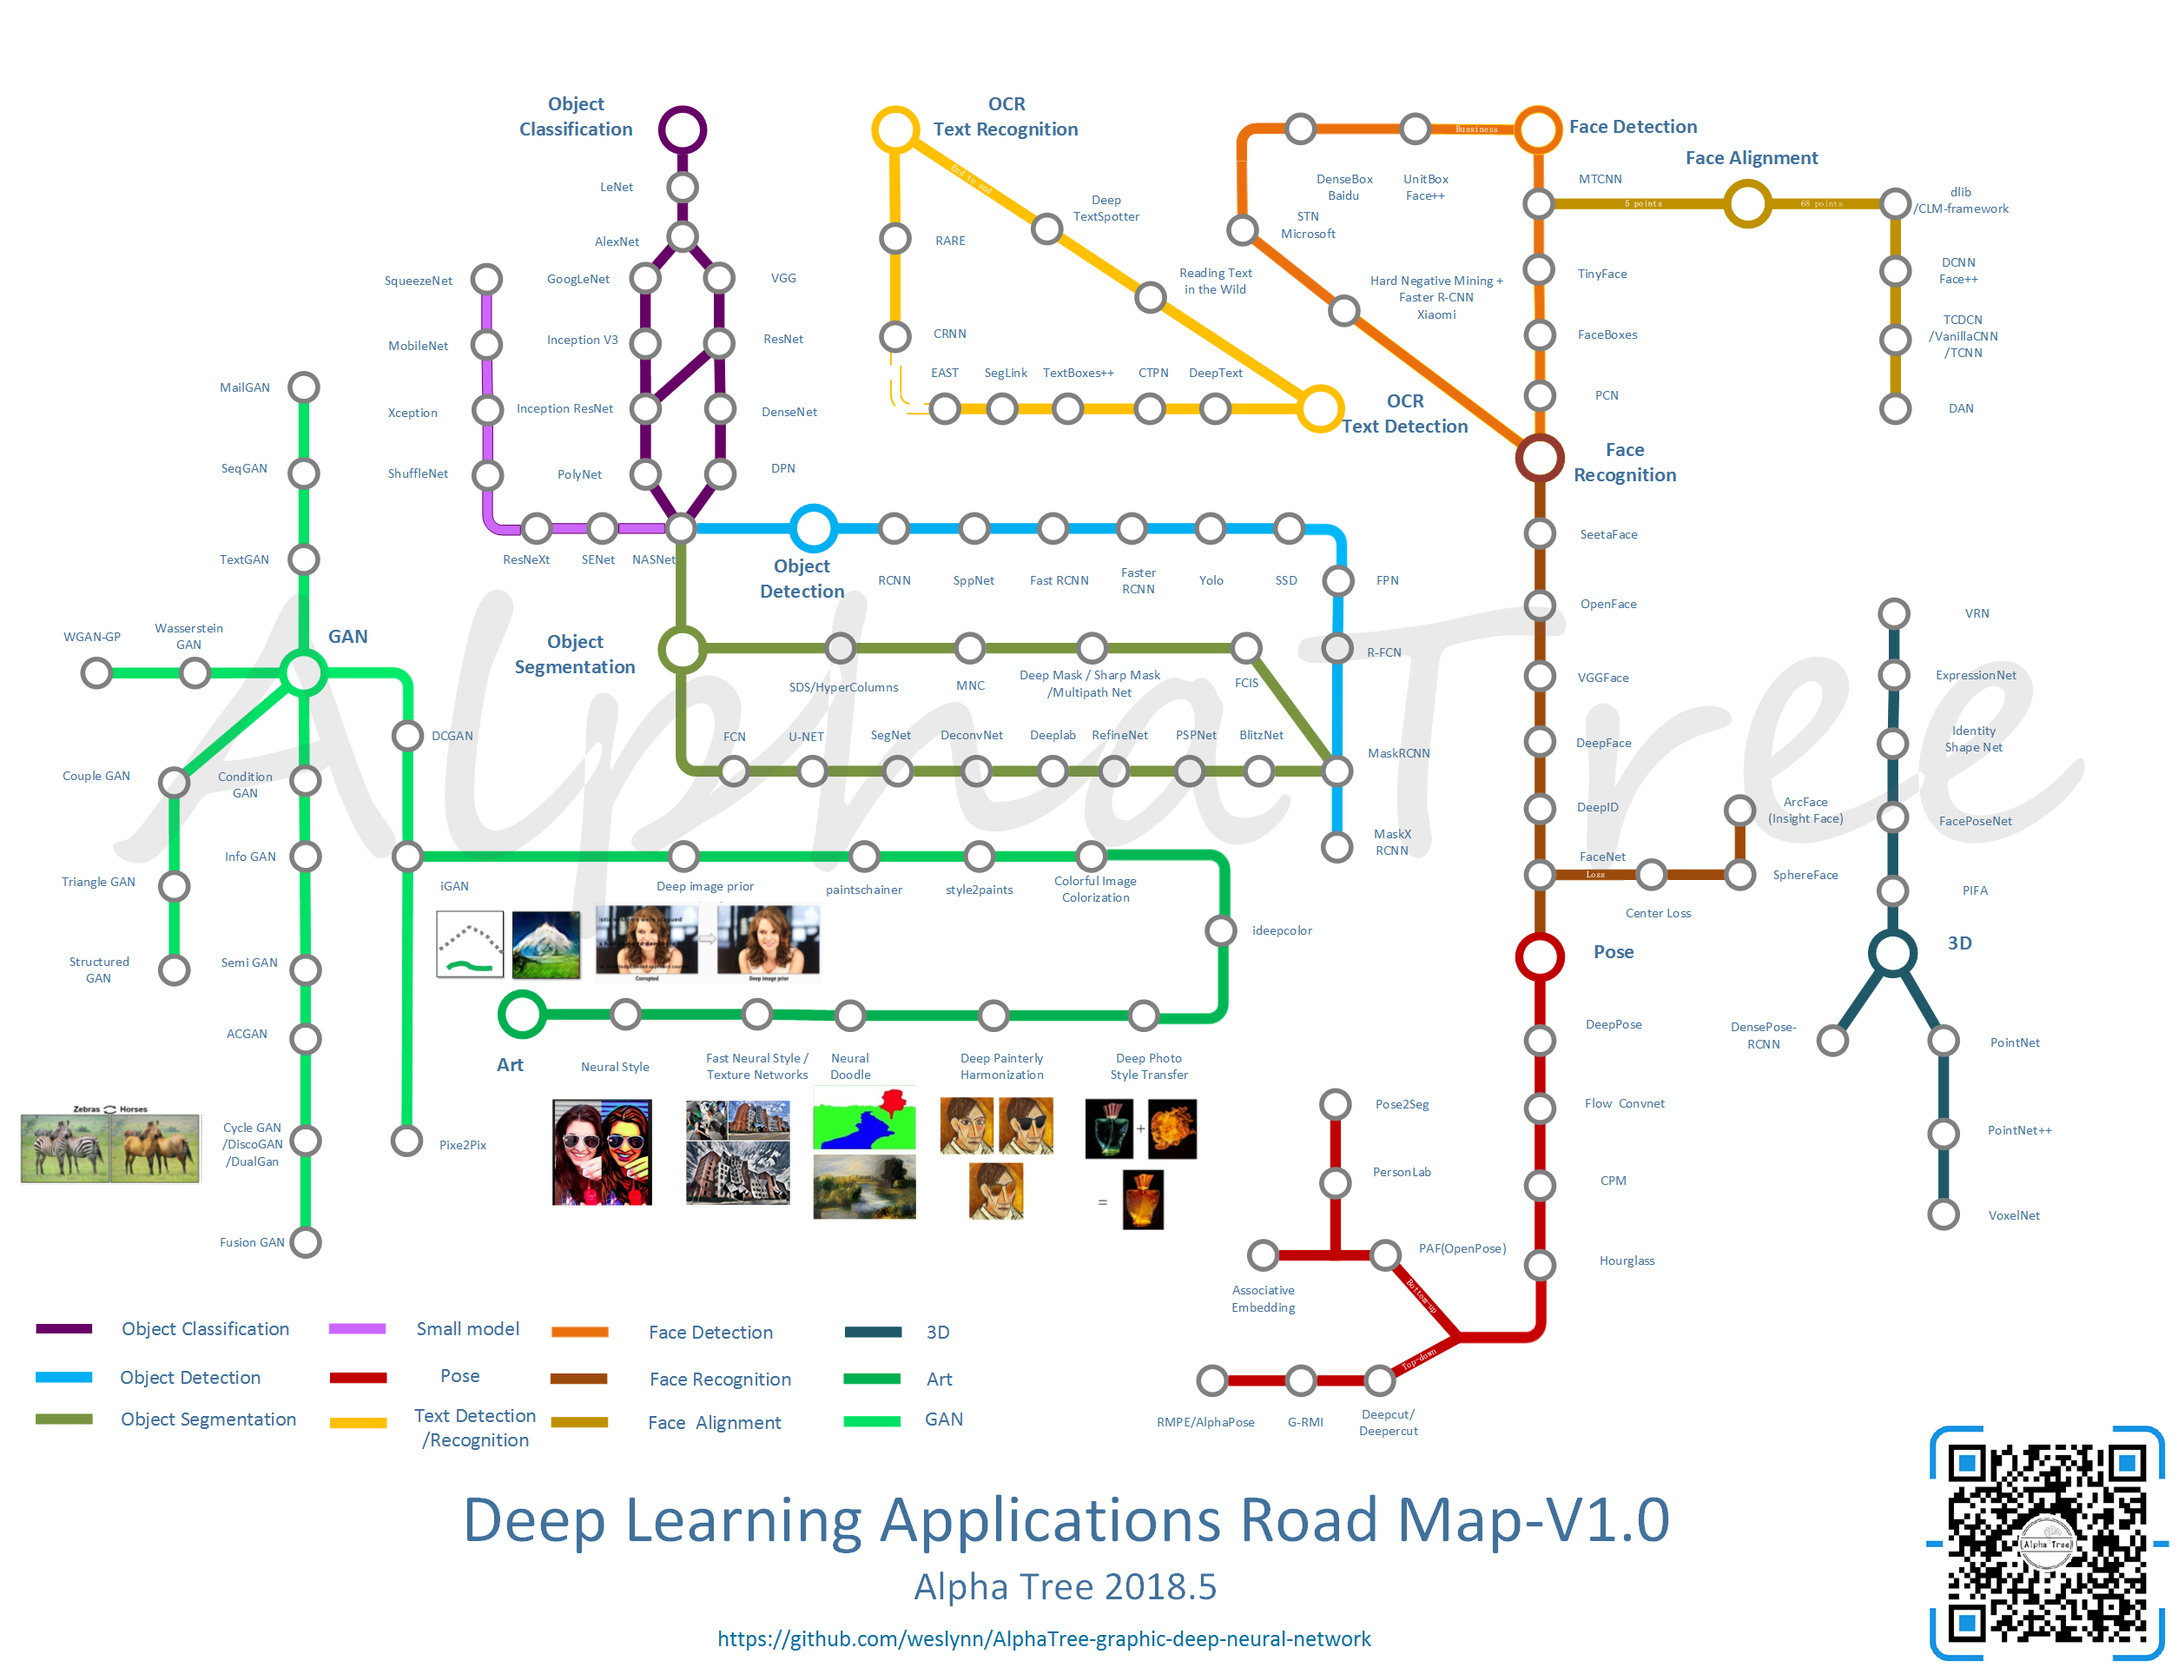
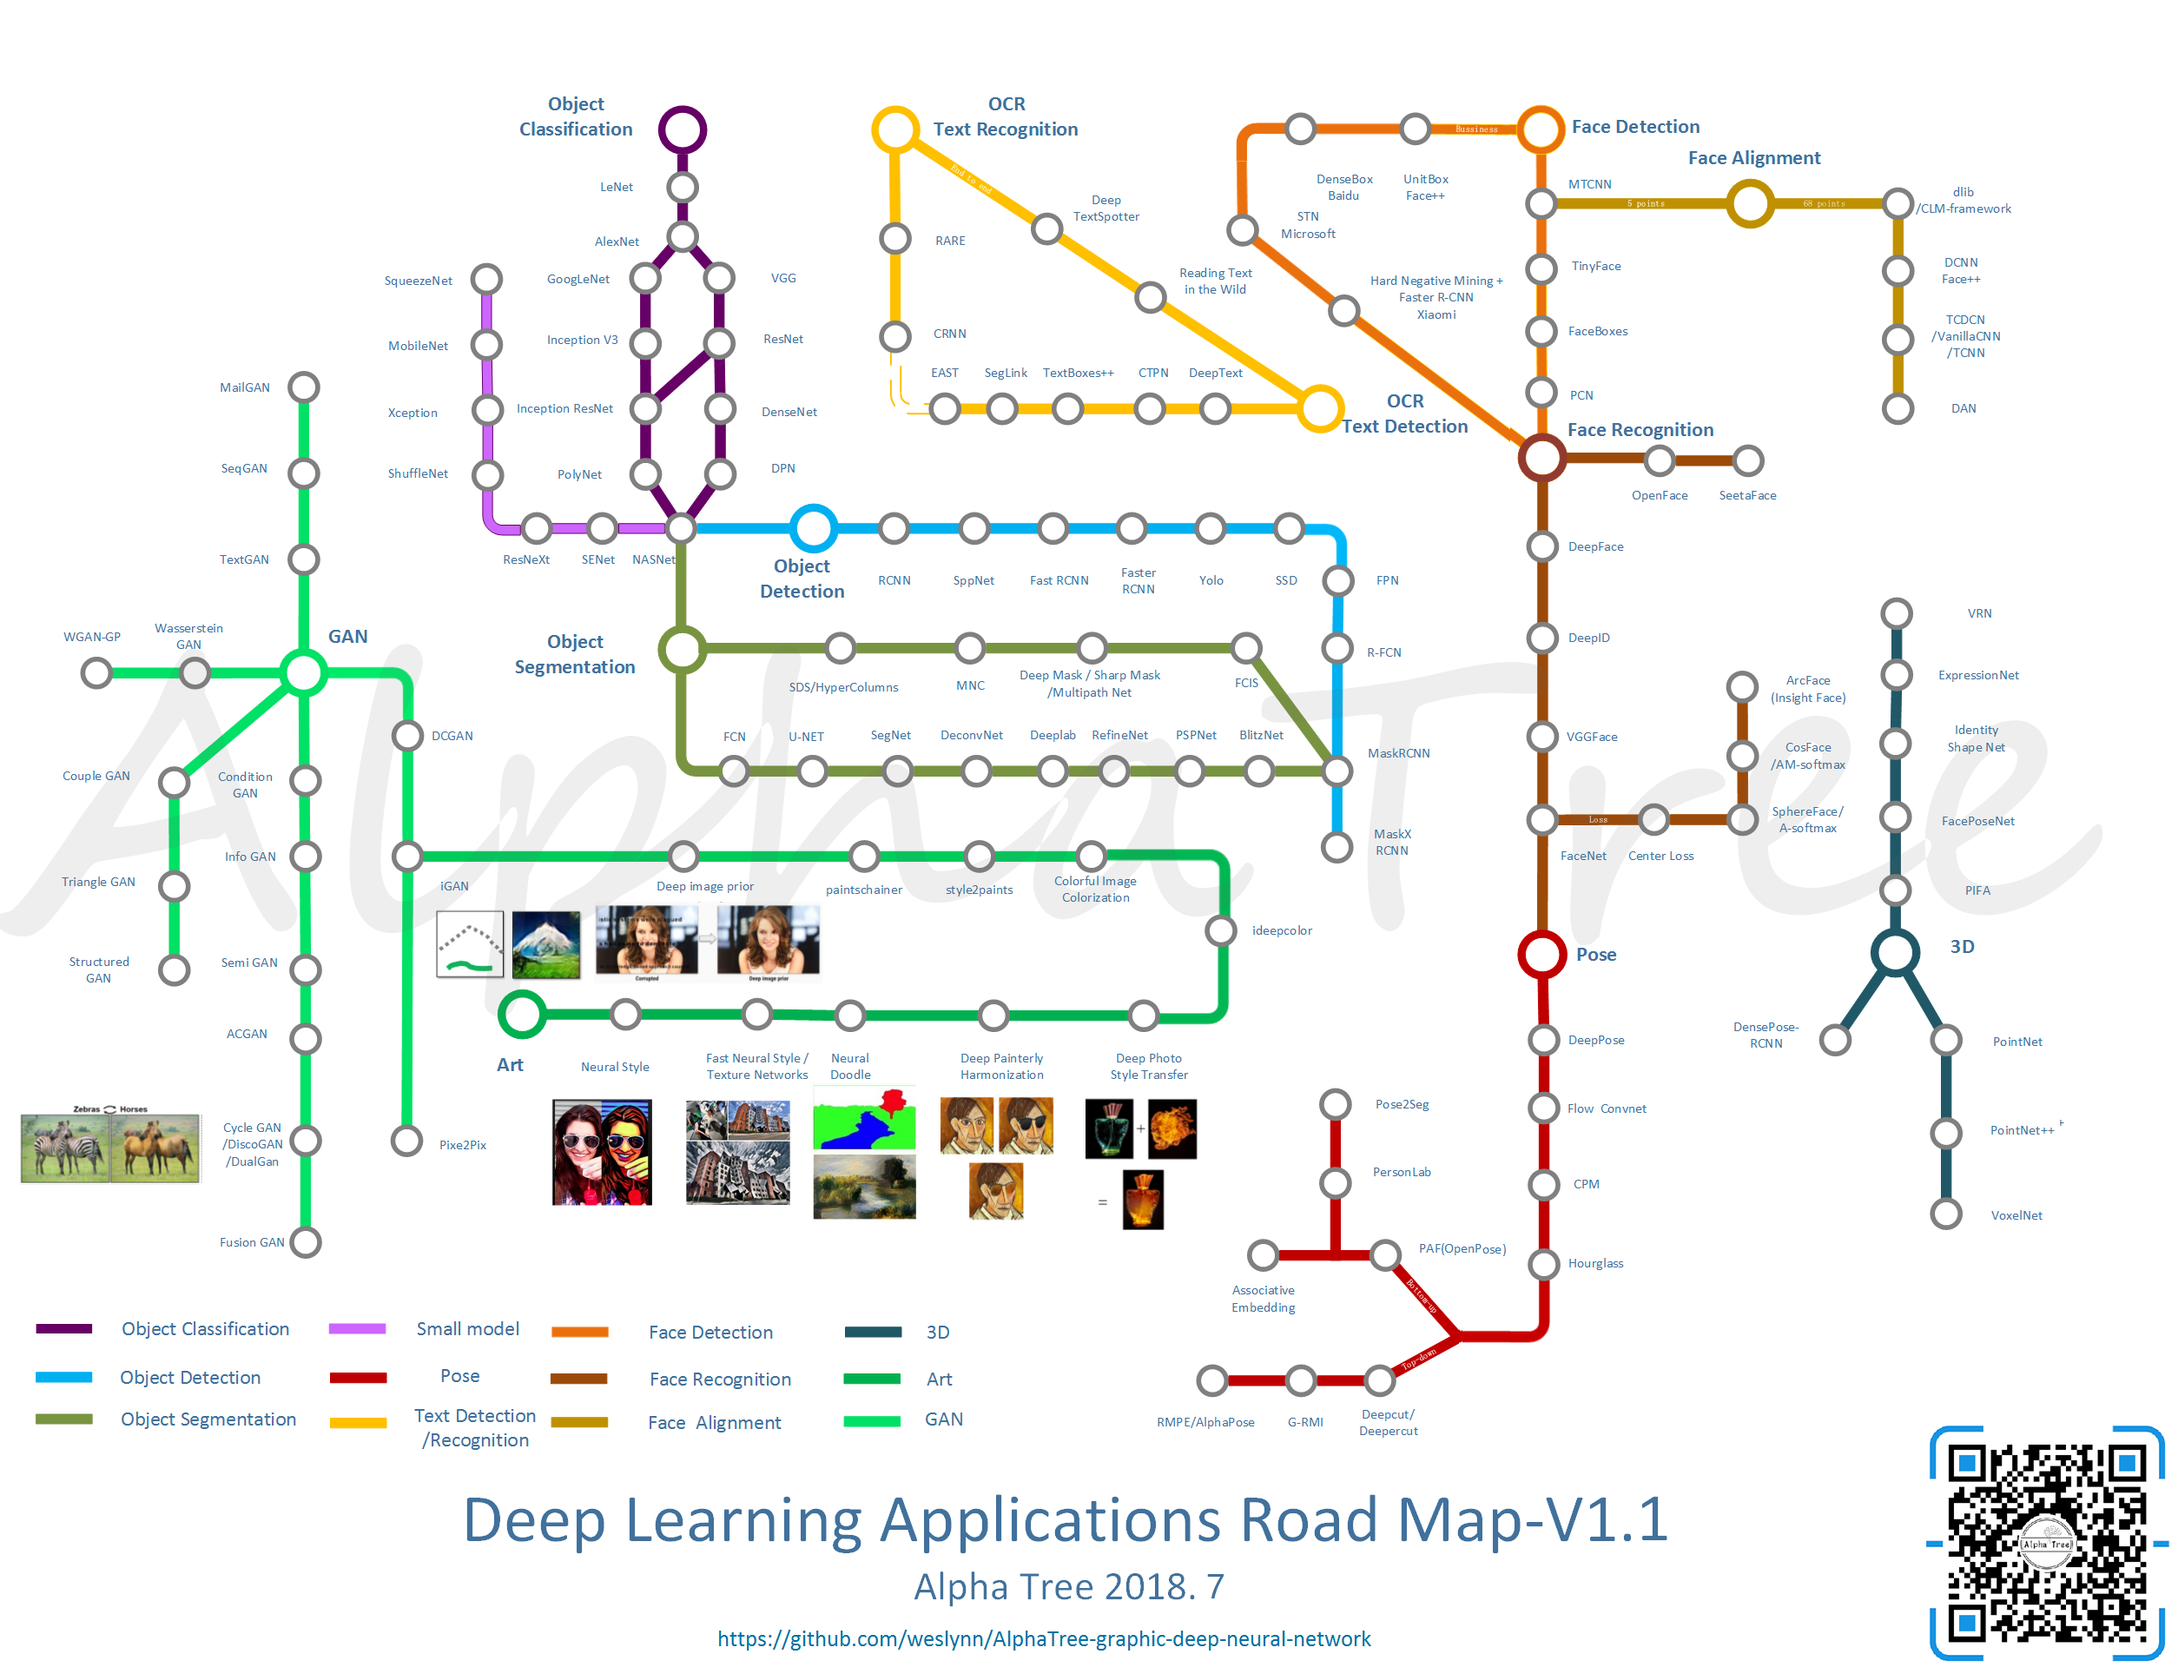
map

diff --git a/README.md b/README.md
@@ -27,10 +27,10 @@ Object Detection：ssd
 
 
 
-<a href="https://raw.githubusercontent.com/weslynn/graphic-deep-neural-network/master/map/mapclean_1.0.png"> <img src="https://github.com/weslynn/graphic-deep-neural-network/blob/master/map/mapclean_1.0.png" width="1200"> </a>
+<a href="https://raw.githubusercontent.com/weslynn/graphic-deep-neural-network/master/map/mapclean_1.1.png"> <img src="https://github.com/weslynn/graphic-deep-neural-network/blob/master/map/mapclean_1.1.png" width="1200"> </a>
 
 
-[大图链接](https://raw.githubusercontent.com/weslynn/graphic-deep-neural-network/master/map/mapclean_1.0.png)
+[大图链接](https://raw.githubusercontent.com/weslynn/graphic-deep-neural-network/master/map/mapclean_1.1.png)
 
 
 现在主要有如下方向
@@ -473,6 +473,14 @@ https://github.com/MarekKowalski/DeepAlignmentNetwork
 
 
 -----------------------------------------------------------------------------------------------------------
+
+过去二十年来，人脸识别要解决的关键问题还是如何寻找合适特征的算法，主要经过了四个阶段。第一个阶段Holistci Learning，通过对图片进行空间转换，得到满足假设的一定分布的低维表示
+，如线性子空间，稀疏表示等等。这个想法在20世纪90年代占据了FR的主导地位
+2000年。然而，一个众所周知的问题是这些理论上合理的算法无法解决很多异常的问题，当人脸变化偏离了先前的假设，算法就失效了。
+在21世纪初，这个问题引起了以Local handcraft算子为主的研讨。 出现了Gabor 算子和LBP算子，及它们的多层和高维扩展。局部算子的一些不变属性表现出了强大的性能。不幸的是，手工设计的算子缺乏独特性和紧凑性，在海量数据处理表现出局限性。
+在2010年初，基于浅层学习的算法被引入，尝试用两层网络来学习，之后，出现了深度学习的方法，使用多层神经网络来进行特征提取和转换。2014年，DeepFace 和DeepID第一次在不受约束的情景超越了人类的表现。从那时起，研究
+重点已转向基于深度学习的方法。 
+
 
 ![FaceDetection1](https://github.com/weslynn/graphic-deep-neural-network/blob/master/otherpic/facepic/facerecognition1.png)
 
